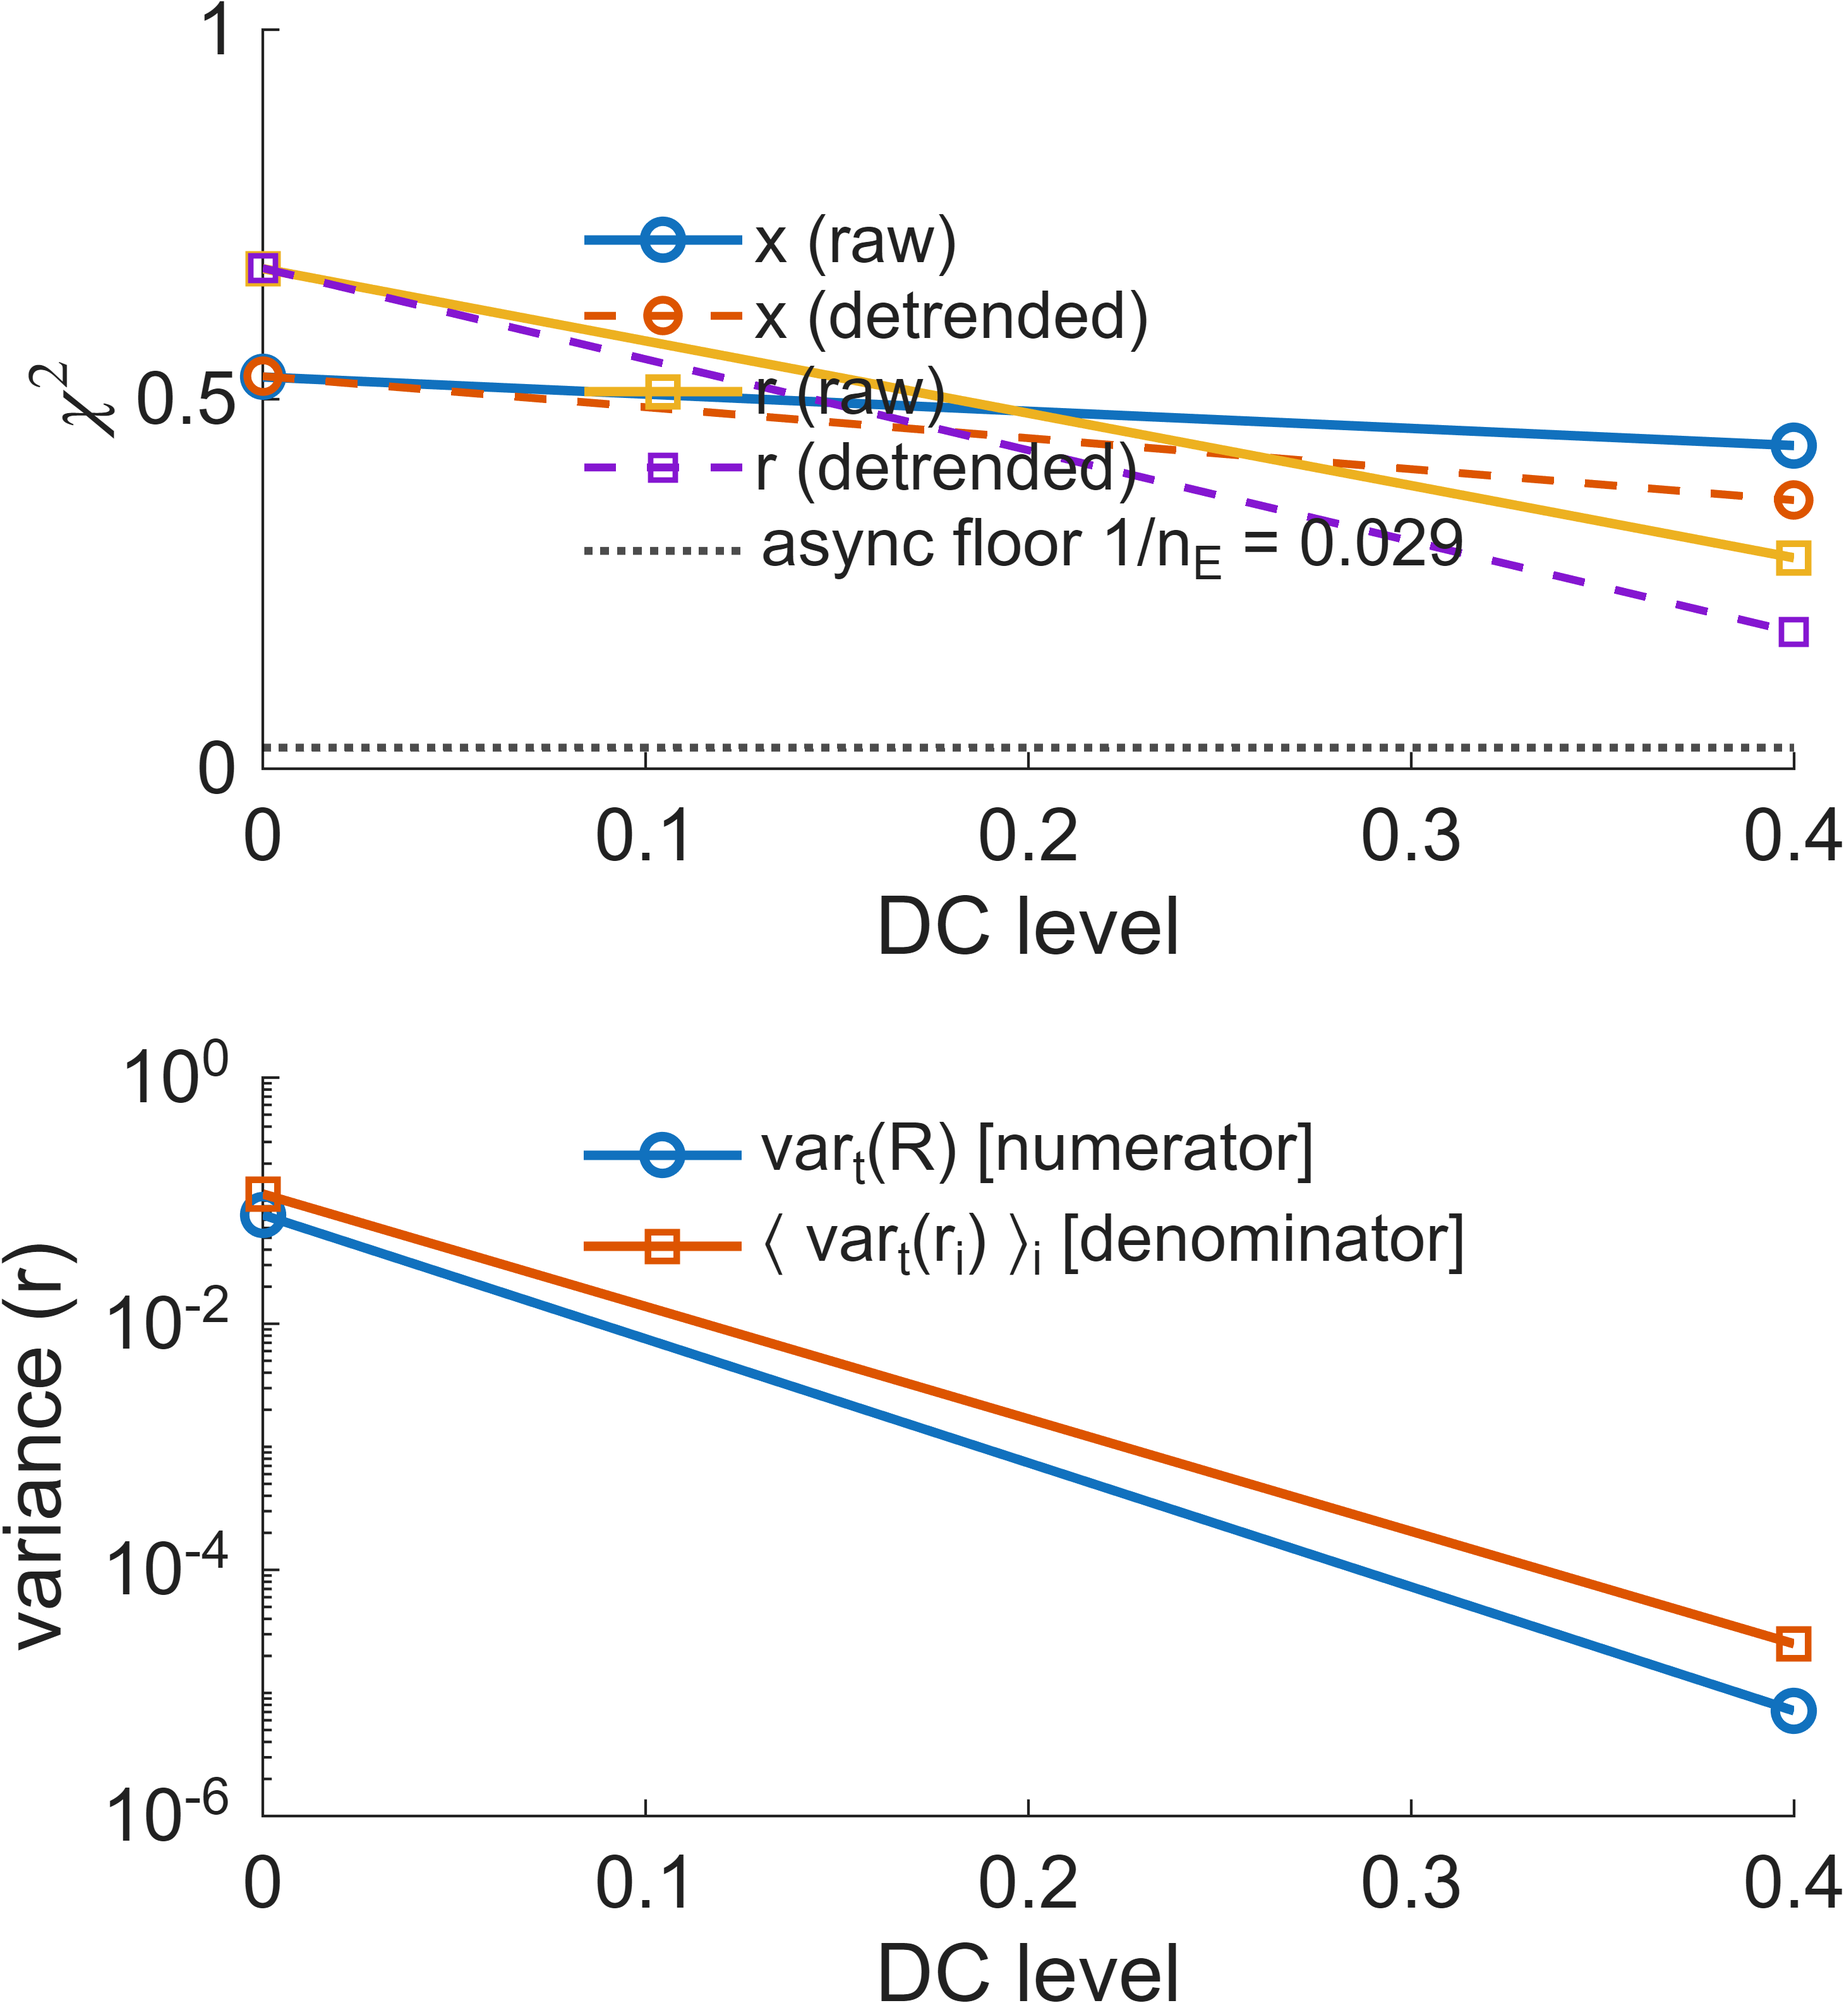
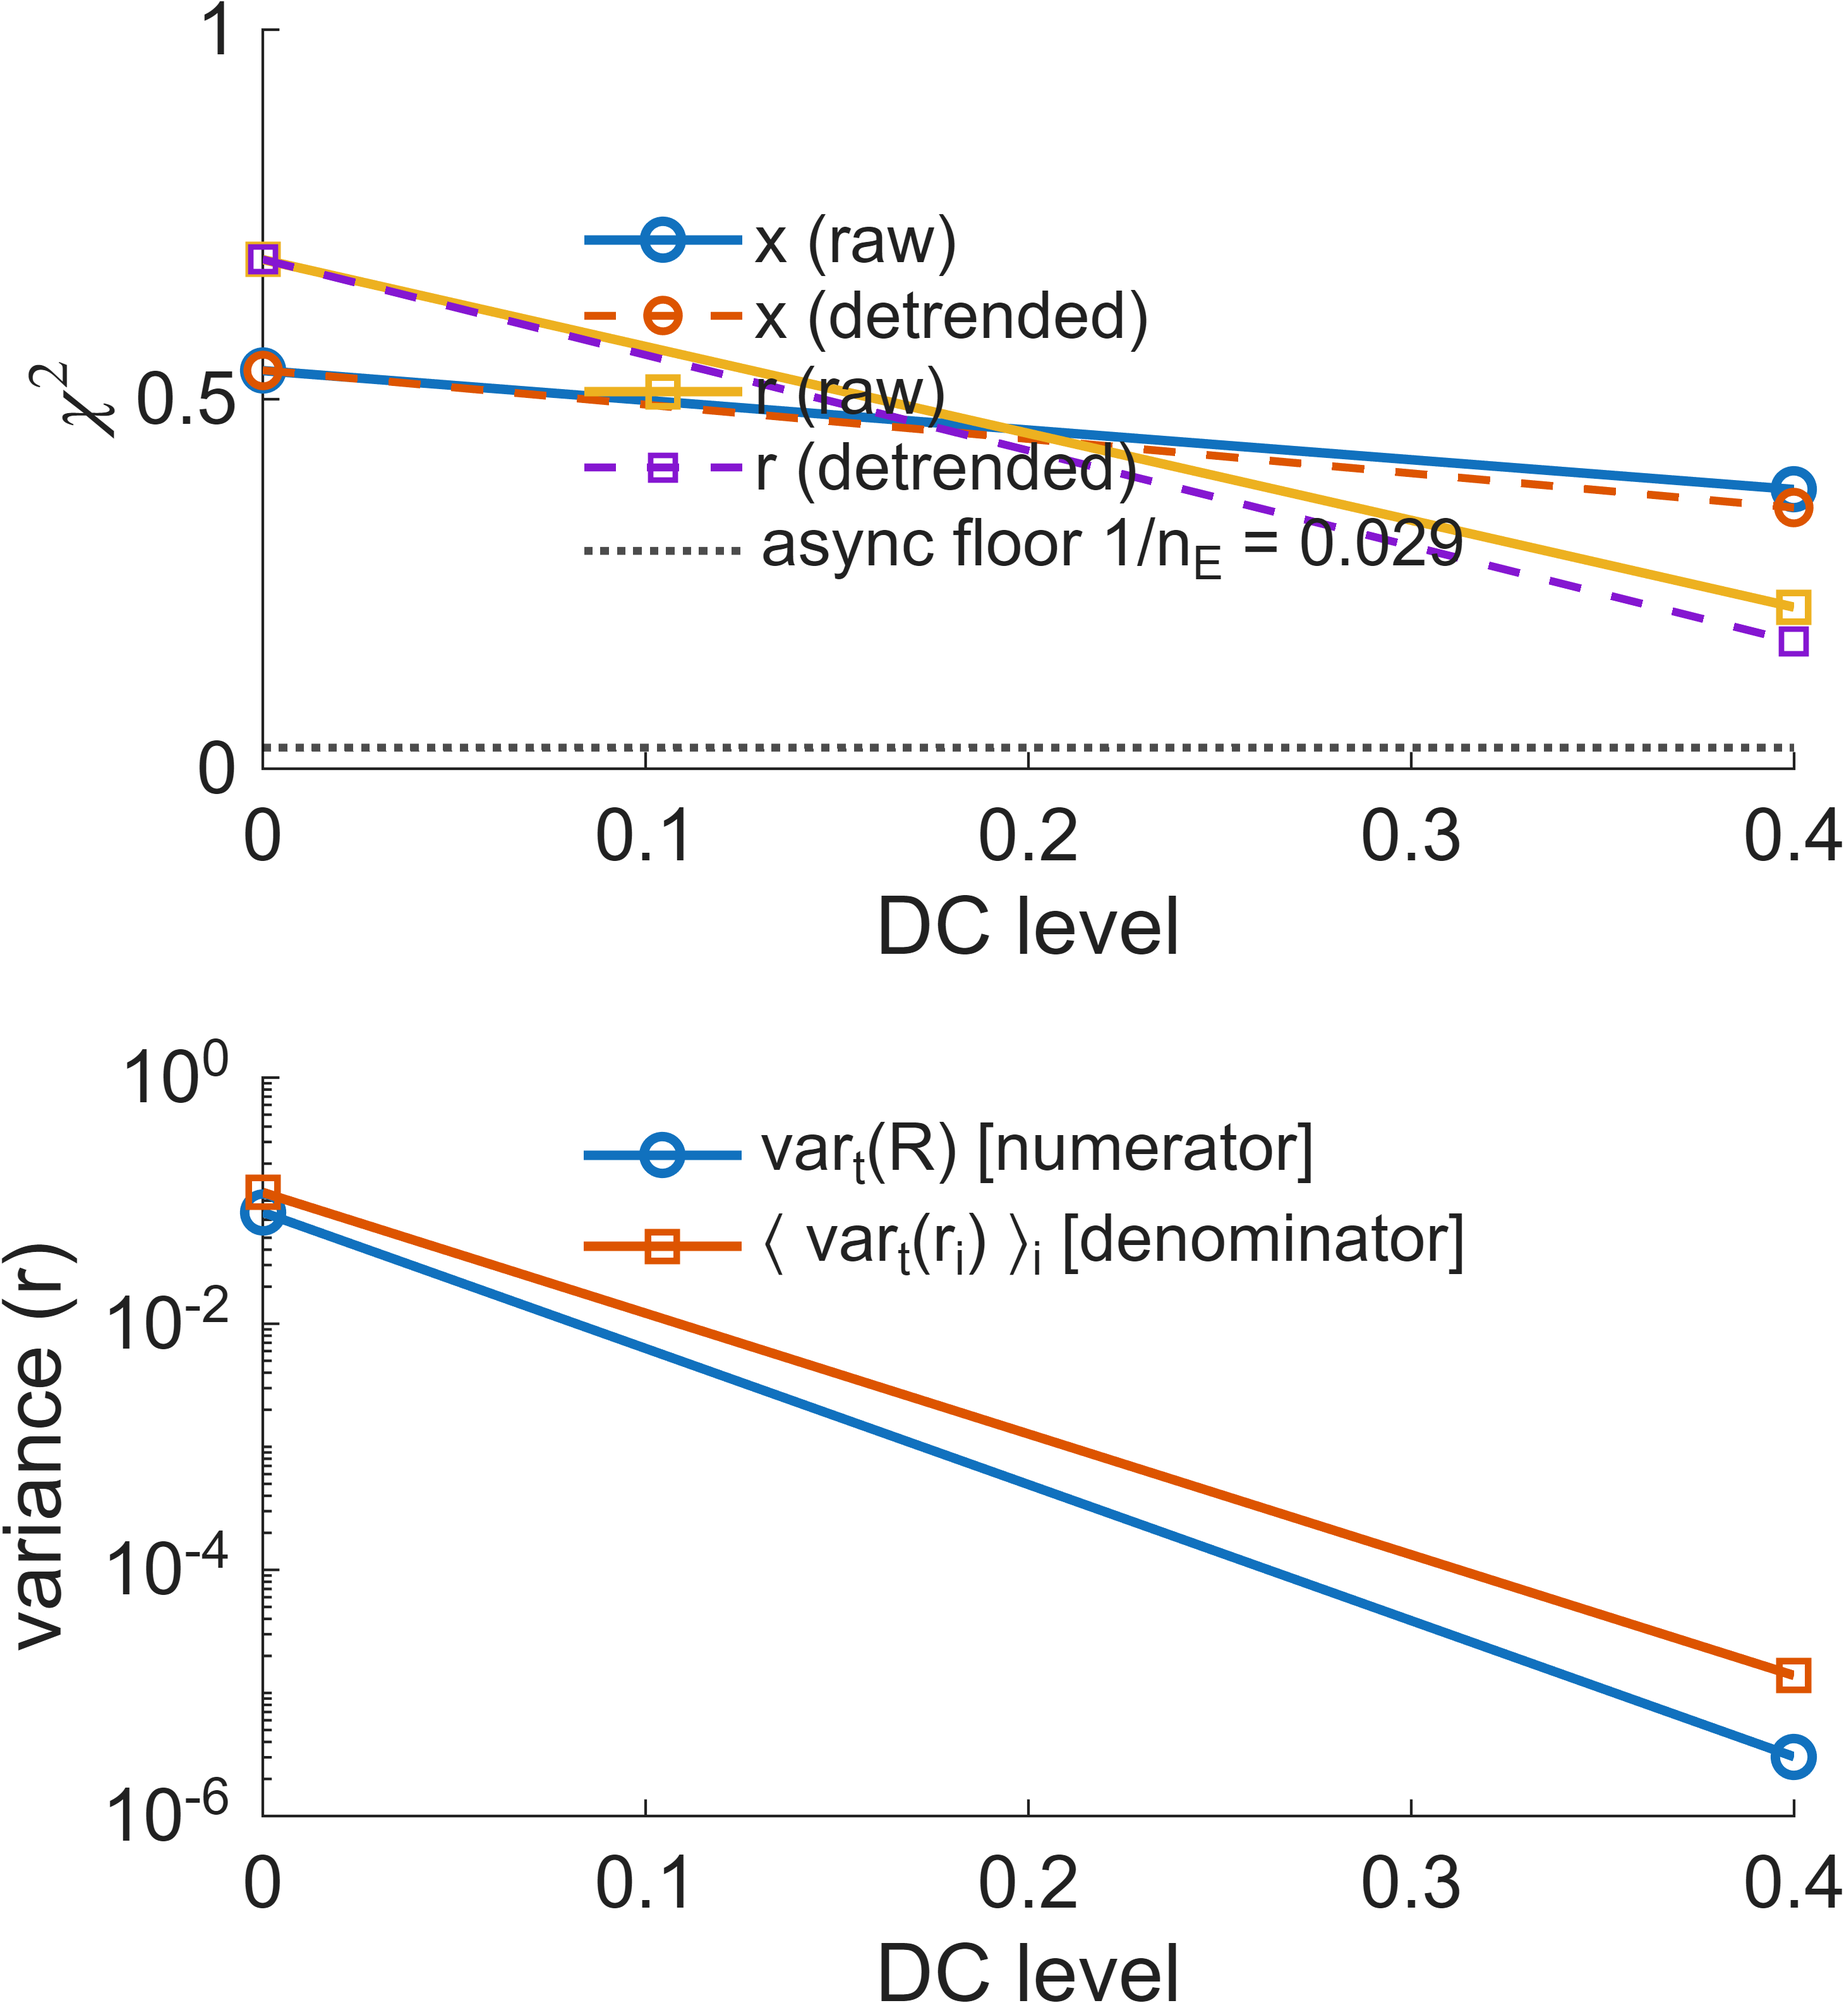
fixed tau_a_E to match default for the bursting example

Changed region(s): [[0.1247, 0.1249, 0.9976, 0.3434], [0.2182, 0.6244, 0.9976, 0.9054], [0.1247, 0.5932, 0.1559, 0.6244]]

diff --git a/scripts/presentations/Stability_Manuscript/fig_stim_engages_adaptation/bursting_SRNN_example.m b/scripts/presentations/Stability_Manuscript/fig_stim_engages_adaptation/bursting_SRNN_example.m
@@ -68,7 +68,7 @@ c_I     = 0.15/3;  % adaptation strength for I   (default 0.15/3 ~ 0.05)
 
 % Adaptation time constants (row vectors). Leave [] to auto-fill with
 % logspace(log10(0.25), log10(10), n_a) inside build_network().
-tau_a_E = logspace(log10(0.3), log10(15), n_a_E);    % old bursting: [0.3 ... 15] s (slower tail)
+tau_a_E = logspace(log10(0.25), log10(10), n_a_E);    % old bursting: [0.3 ... 15] s (slower tail)
 tau_a_I = [];                                        % auto if n_a_I>0
 
 %% ======================================================================
